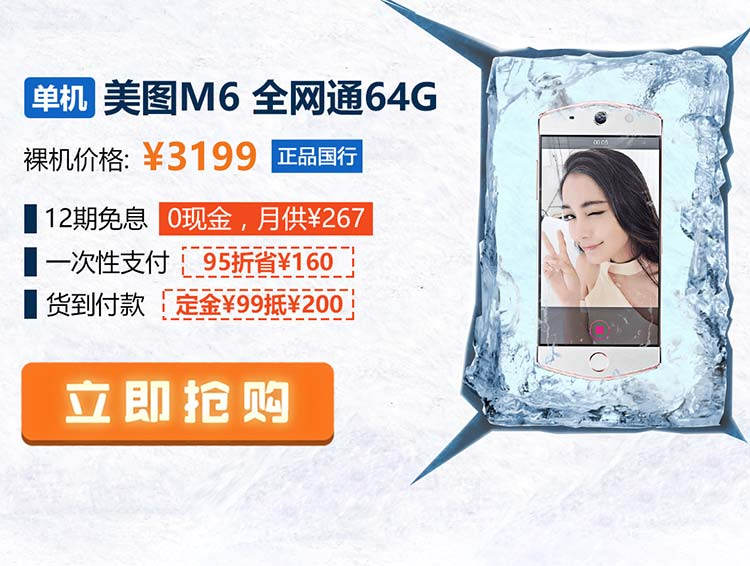
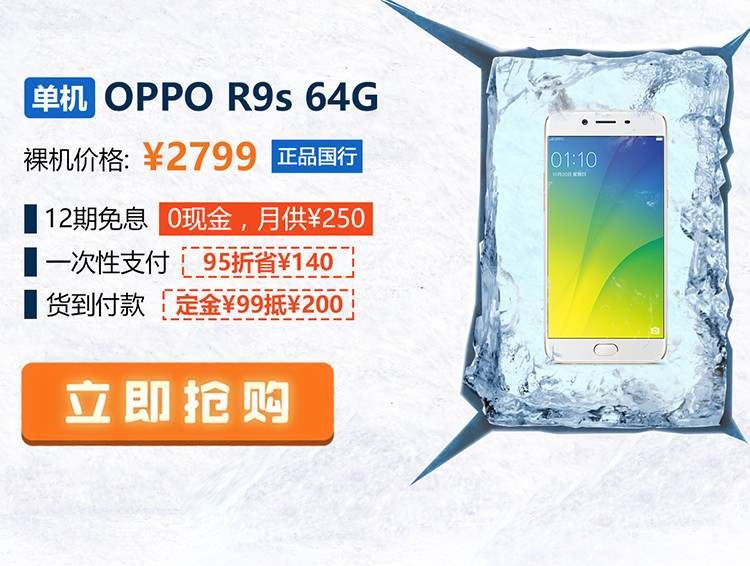
添加下架商品支持

diff --git a/public/html/pages/phone/index/A/index.html b/public/html/pages/phone/index/A/index.html
@@ -29,7 +29,7 @@
                 <a href="/phs/sg/A/271{{params}}" ng-click="writeSelectFoods(this,'271','JBTJ');"><img class="lazy" data-original="/images/phones/assets/index/indexHot_04.jpg"></a>
             </div>
             <div class="img-box">
-                <a href="/phs/sg/A/282{{params}}" ng-click="writeSelectFoods(this,'282','JBTJ');"><img class="lazy" data-original="/images/phones/assets/index/indexHot_05.jpg"></a>
+                <a href="/phs/sg/A/320{{params}}" ng-click="writeSelectFoods(this,'320','JBTJ');"><img class="lazy" data-original="/images/phones/assets/index/indexHot_05.jpg"></a>
             </div>
         </div>
 
